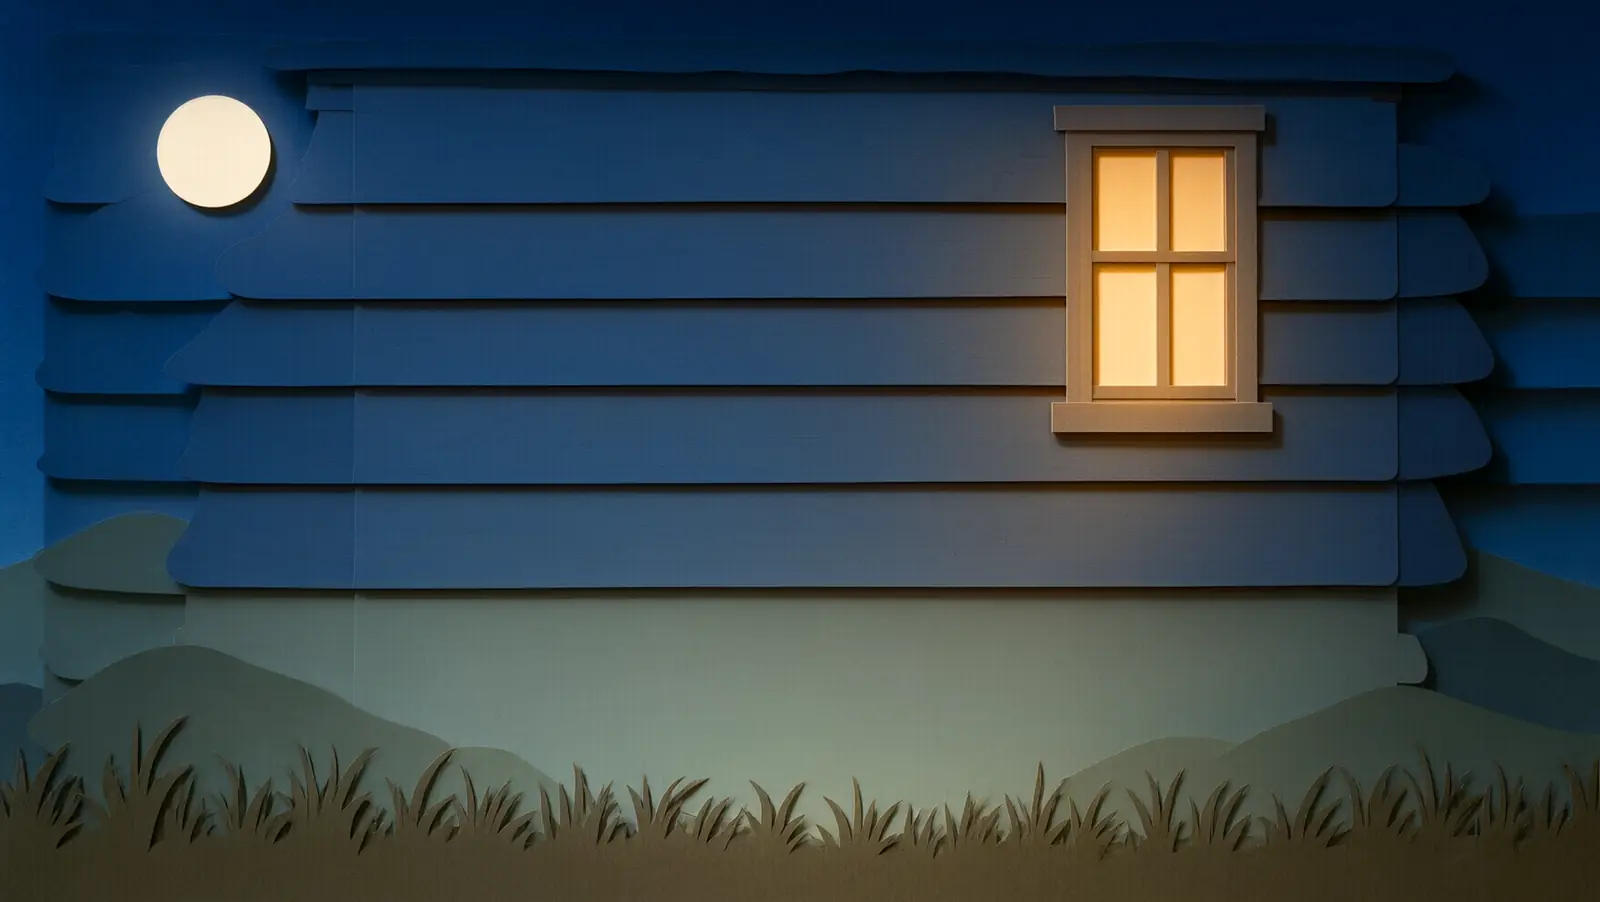
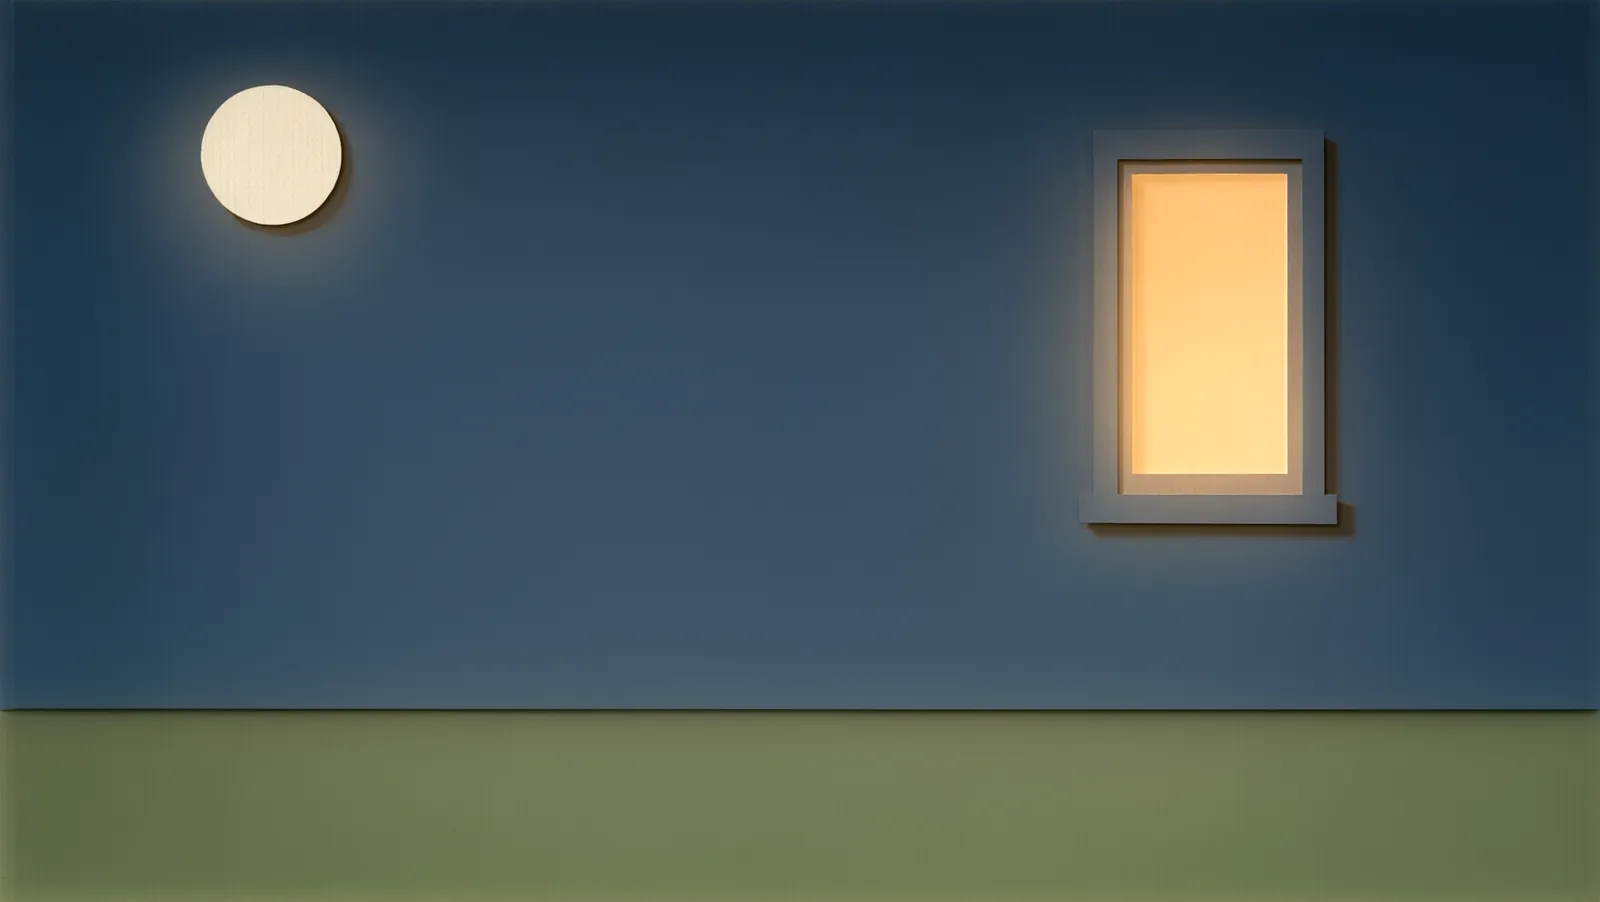
브레멘 음악대 집 배경 2장 새 규칙으로 교체: 평평한 벽 한 장, 창·식탁·문만, 창 속 그림자와 식탁 가림 위치 맞춤
Claude-Session: https://claude.ai/code/session_01LNk5ZqxZZjA2bBcEAsTsQ1

diff --git a/tales/bremen/bremen.js b/tales/bremen/bremen.js
@@ -56,7 +56,7 @@
   const ROBBER = { '#3F6B4F': 'robber_green', '#A93B32': 'robber_red', '#6B4A32': 'robber_brown' };
   const BGBOX = { x: -40, y: -24, w: 1080, h: 1080 * 992 / 1760 };
   const BG_EDGE = { mill: ['#a7d3e7', '#dbcca7'], road: ['#c2e4f5', '#918b68'], wall: ['#9bd1f4', '#384830'], roof: ['#fef9bf', '#795e3a'], meadow: ['#bedbe1', '#39422c'],
-    forest: ['#002552', '#4b6261'], house_low: ['#001735', '#423924'], house_pov: ['#241309', '#321e14'], house_wide: ['#003573', '#283a40'], morning: ['#aed3e7', '#a9a277'] };
+    forest: ['#002552', '#4b6261'], house_low: ['#1b2b44', '#76814f'], house_pov: ['#fdecc0', '#c79a5d'], house_wide: ['#003573', '#283a40'], morning: ['#aed3e7', '#a9a277'] };
   function bgImage(T, key, { parent, zoom = 1 } = {}) {
     const u = bgUrl(key); if (!u) return null;
     const { x, y, w, h } = BGBOX, [top, bot] = BG_EDGE[key];
@@ -377,14 +377,14 @@
     el('rect', { x: -400, y: -400, width: 1800, height: 1400, fill: C.indigo, opacity: .45 }, b);
     return { trees, path };
   }
-  /* 그림 판자벽의 높은 창: 유리 (685..785, 45..225), 가운데 x≈735 */
-  const LOW_WIN = { x0: 685, x1: 785, y0: 45, y1: 225 };
+  /* 그림 벽의 높은 창: 유리 (724..830, 93..295), 가운데 x≈777 */
+  const LOW_WIN = { x0: 724, x1: 830, y0: 93, y1: 295 };
   function houseLowBG(T, dx = 0, dy = 0) {
     const { paper, el } = T, b = T.bg;
     if (bgImage(T, 'house_low')) { // 창 속 도둑 그림자 셋은 코드 (유리 안에만)
       const win = bgClip(T, 'house_low', b, [['rect', { x: LOW_WIN.x0, y: LOW_WIN.y0, width: LOW_WIN.x1 - LOW_WIN.x0, height: LOW_WIN.y1 - LOW_WIN.y0 }]]);
       const sh = win.lastChild;
-      [705, 735, 765].forEach((x, i) => paper(sh, [['circle', { cx: x, cy: 178 - (i % 2) * 6, r: 12, fill: '#8a5a32', opacity: .75 }], ['ellipse', { cx: x, cy: 214, rx: 16, ry: 22, fill: '#8a5a32', opacity: .75 }]]));
+      [750, 777, 804].forEach((x, i) => paper(sh, [['circle', { cx: x, cy: 248 - (i % 2) * 6, r: 12, fill: '#8a5a32', opacity: .75 }], ['ellipse', { cx: x, cy: 284, rx: 16, ry: 22, fill: '#8a5a32', opacity: .75 }]]));
       return win;
     }
     sky(T, C.indigo);
@@ -400,12 +400,10 @@
     paper(b, [['rect', { x: -300, y: 500, width: 1600, height: 300, fill: '#3E5A3A' }]]);
     return win;
   }
-  /* 그림 창 너머 방: 식탁 (213..710, 윗면 y≈323) 위에 금화·음식. 창틀도 그림 속에 있다 */
-  const POV_TABLE = [['rect', { x: 213, y: 323, width: 497, height: 100 }],
-    ['ellipse', { cx: 306, cy: 320, rx: 48, ry: 17 }], ['ellipse', { cx: 300, cy: 309, rx: 22, ry: 13 }],
-    ['ellipse', { cx: 408, cy: 320, rx: 52, ry: 16 }], ['ellipse', { cx: 408, cy: 309, rx: 40, ry: 10 }],
-    ['ellipse', { cx: 559, cy: 322, rx: 68, ry: 15 }], ['ellipse', { cx: 541, cy: 295, rx: 42, ry: 30 }],
-    ['ellipse', { cx: 601, cy: 306, rx: 26, ry: 22 }], ['ellipse', { cx: 556, cy: 280, rx: 22, ry: 17 }]];
+  /* 그림 속 방: 긴 식탁 (187..666, 윗면 y≈374) 위에 금화·음식. 벽·바닥은 평평한 한 장 */
+  const POV_TABLE = [['rect', { x: 187, y: 372, width: 480, height: 40 }],
+    ['ellipse', { cx: 336, cy: 362, rx: 56, ry: 20 }], ['ellipse', { cx: 445, cy: 362, rx: 58, ry: 18 }], ['ellipse', { cx: 445, cy: 350, rx: 46, ry: 14 }],
+    ['ellipse', { cx: 576, cy: 362, rx: 58, ry: 16 }], ['ellipse', { cx: 576, cy: 340, rx: 50, ry: 28 }]];
   function housePOV(T) {
     const { paper, el } = T, b = T.bg;
     if (bgImage(T, 'house_pov')) return true;
